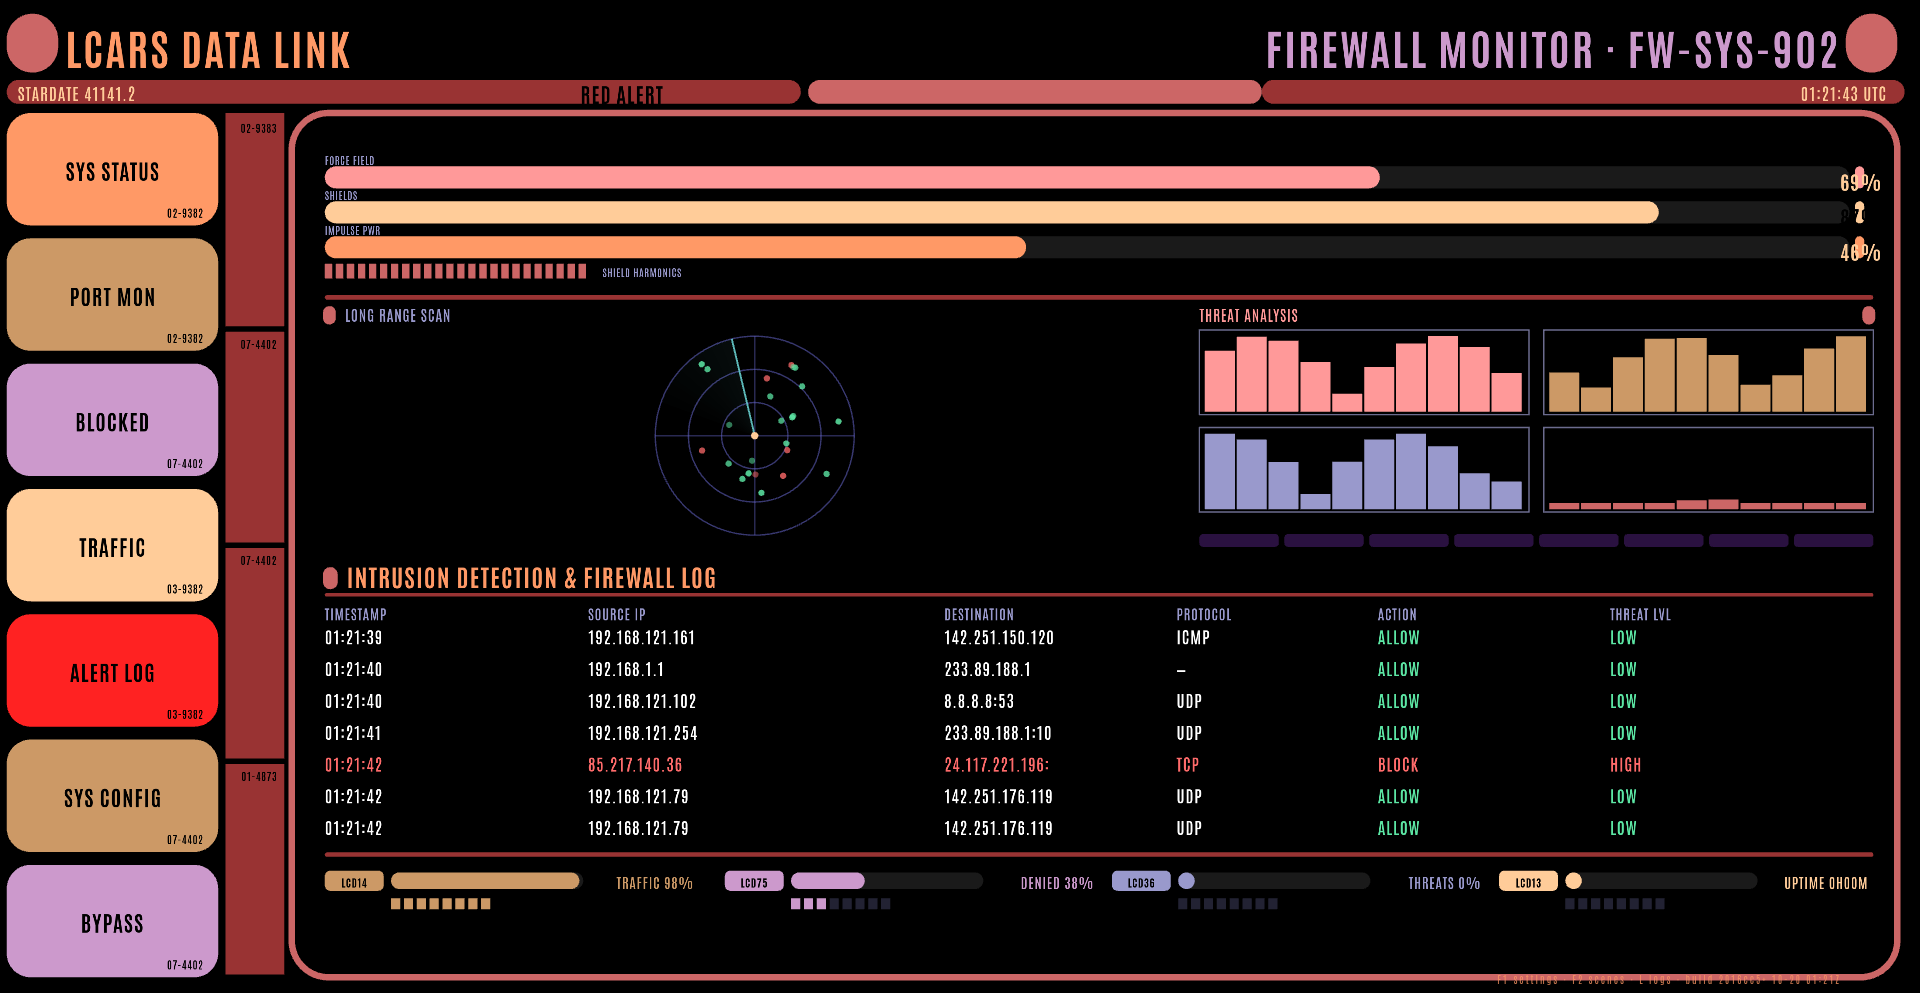
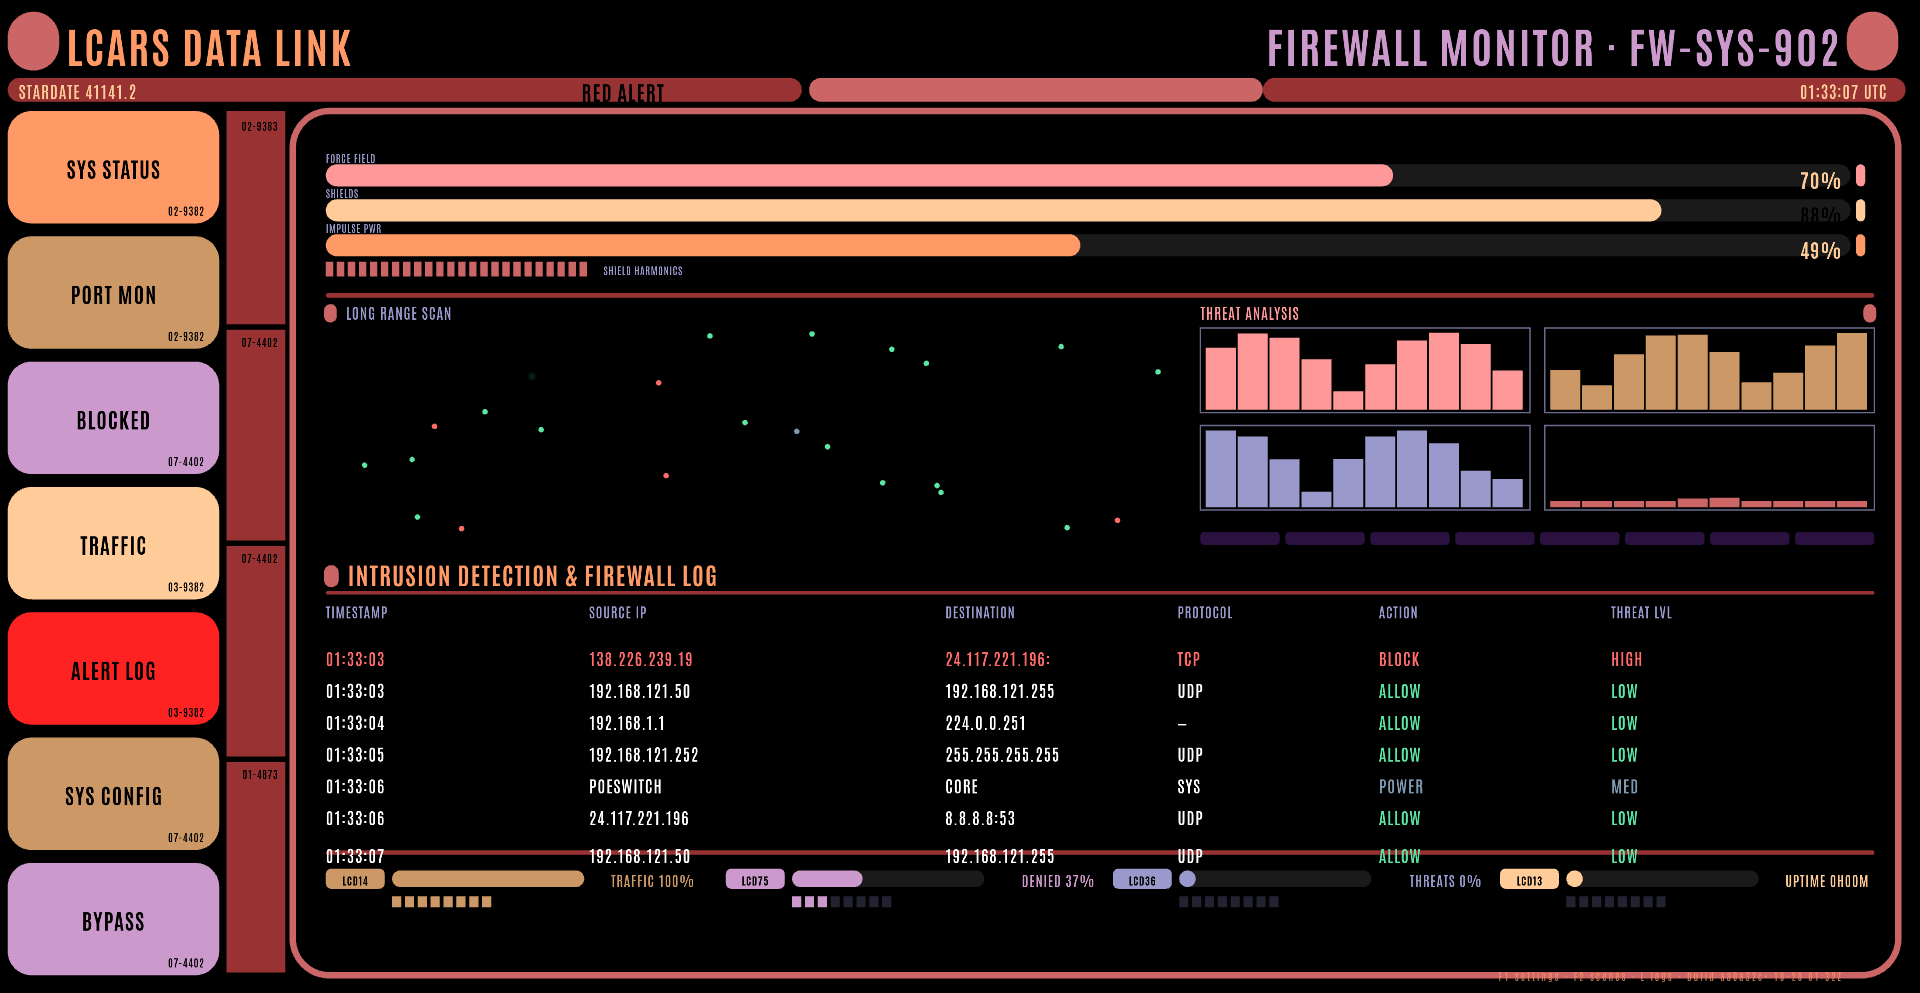
bridge: long-range scan is space, not radar; brightness is constant
Contacts drift through the scan panel and wrap at the edges; the
sensor locks a corner-bracket target on one of them every few
seconds, and threats lock their own contact at once. The system-
event power dip (the last thing that changed screen brightness) is
gone. Log rows now rise from below instead of dropping in, and the
gauge percentages are positioned by measured width so they never
collide with the bar end-caps.

diff --git a/web/src/themes/bridge/console.ts b/web/src/themes/bridge/console.ts
@@ -19,7 +19,7 @@ import { L, EV, label, hbar, vbar, pip } from './sprites';
 const KINDS = ['allow', 'block', 'dns', 'dhcp', 'wifi', 'threat', 'system'] as const;
 type Kind = typeof KINDS[number];
 
-interface Blip { ang: number; dist: number; t0: number; color: number; }
+interface Obj { x: number; y: number; vx: number; vy: number; t0: number; color: number; }
 interface LogRow { kind: Kind; time: string; src: string; dst: string; proto: string; action: string; lvl: string; y: number; }
 interface HistEv { kind: Kind; }
 
@@ -74,8 +74,10 @@ export class Console {
 
   private lay!: Lay;
   private t = 0;
-  private sweep = 0;
-  private blips: Blip[] = [];
+  private objs: Obj[] = [];
+  private target = -1;
+  private targetUntil = -9;
+  private nextTarget = 3;
   private rows: LogRow[] = [];
   private rowPool: Array<{ txt: Text }> = [];
   private hist: HistEv[] = [];
@@ -84,7 +86,6 @@ export class Console {
   private portI = 0;
   private ffFlash = 0;
   private blockFlash = 0;
-  private powerT = 9;
   private alertUntil = -9;
   private alertOn = false;
   private phase = 0;
@@ -103,6 +104,7 @@ export class Console {
   private hLog = label('INTRUSION DETECTION & FIREWALL LOG', 26, L.orange, 700);
   private hSweep = label('LONG RANGE SCAN', 16, L.paleblue, 600);
   private hThreat = label('THREAT ANALYSIS', 16, L.salmon, 600);
+  private lockT = label('', 14, L.salmon, 600);
   private colT: Text[] = [];
   private cellT: Text[][] = [];
   private gaugeT: Text[] = [];
@@ -111,7 +113,7 @@ export class Console {
 
   constructor(private layer: Container, private settings: Record<string, any>) {
     layer.addChild(this.chrome, this.leftG, this.gaugeG, this.sweepG, this.threatG, this.lcdG, this.rowsG, this.texts);
-    this.texts.addChild(this.titleL, this.titleR, this.stardateT, this.clockT, this.alertT, this.hLog, this.hSweep, this.hThreat);
+    this.texts.addChild(this.titleL, this.titleR, this.stardateT, this.clockT, this.alertT, this.hLog, this.hSweep, this.hThreat, this.lockT);
     for (let i = 0; i < SIDEBAR.length; i++) {
       const name = label(SIDEBAR[i][0], 24, '#000000', 700, 'center');
       const code = label(SIDEBAR[i][1], 13, '#000000', 600, 'right');
@@ -148,6 +150,7 @@ export class Console {
       this.texts.addChild(c, v);
     }
     this.alertT.visible = false;
+    this.lockT.visible = false;
   }
 
   // ── layout ───────────────────────────────────────────────────────────────
@@ -290,8 +293,10 @@ export class Console {
   // ── events ───────────────────────────────────────────────────────────────
   event(kind: Kind, src: string, ev?: { dst?: string; port?: string; proto?: string }): void {
     if (this.settings.bBlips !== false) {
-      if (this.blips.length >= (this.settings.bMaxBlips ?? 60)) this.blips.shift();
-      this.blips.push({ ang: Math.random() * Math.PI * 2, dist: 0.25 + Math.random() * 0.7, t0: this.t, color: EV[kind] });
+      if (this.objs.length >= (this.settings.bMaxBlips ?? 60)) this.objs.shift();
+      const a = Math.random() * Math.PI * 2, sp = 0.004 + Math.random() * 0.01;
+      this.objs.push({ x: Math.random(), y: Math.random(), vx: Math.cos(a) * sp, vy: Math.sin(a) * sp, t0: this.t, color: EV[kind] });
+      if (kind === 'threat') this.target = this.objs.length - 1, this.targetUntil = this.t + 3;
     }
     if (this.settings.bFeed !== false) {
       // at demo traffic the log would blur into noise: one row per 0.12s
@@ -304,7 +309,7 @@ export class Console {
           src: (src || '?').toUpperCase().slice(0, 15),
           dst: ((ev?.dst ?? '') + (ev?.port ? ':' + ev.port : '') || '—').toUpperCase().slice(0, 15),
           proto: (ev?.proto || (kind === 'dns' ? 'DNS' : kind === 'dhcp' ? 'DHCP' : kind === 'wifi' ? 'WPA' : '—')).toUpperCase().slice(0, 6),
-          action: ACTION[kind], lvl: LVL[kind], y: 40,
+          action: ACTION[kind], lvl: LVL[kind], y: -40,
         });
         const max = Math.min(20, this.settings.bFeedRows ?? 12);
         while (this.rows.length > max + 2) this.rows.shift();
@@ -322,7 +327,6 @@ export class Console {
     if (kind === 'wifi' && this.settings.bPorts !== false) {
       this.ports[this.portI % 8] = this.t; this.portI++;
     }
-    if (kind === 'system') this.powerT = 0;
   }
   private lastLog = -9;
 
@@ -344,12 +348,6 @@ export class Console {
     }
     this.alertT.visible = alert;
 
-    // power dropout (system): one smooth dip, no random flicker
-    if (this.powerT < 1.2) {
-      this.powerT += dt;
-      this.layer.alpha = 0.55 + 0.45 * Math.min(1, this.powerT / 1.2);
-    } else this.layer.alpha = 1;
-
     this.ffFlash = Math.max(0, this.ffFlash - dt * 1.6);
     this.blockFlash = Math.max(0, this.blockFlash - dt * 2.2);
 
@@ -360,7 +358,7 @@ export class Console {
     this.clockT.text = `${String(now.getUTCHours()).padStart(2, '0')}:${String(now.getUTCMinutes()).padStart(2, '0')}:${String(now.getUTCSeconds()).padStart(2, '0')} UTC`;
 
     this.drawGauges(u);
-    this.drawSweep(dt, t, u);
+    this.drawSpace(dt, t, u);
     this.drawThreat(t, u);
     this.drawLog(u);
     this.drawLcd(u);
@@ -395,9 +393,8 @@ export class Console {
       const vt = this.gaugeT[i * 2 + 1];
       vt.text = `${Math.round((v as number) * 100)}%`;
       vt.scale.set(Math.max(0.55, Math.min(2.2, u)) * 0.95);
-      vt.position.set(x + w - 10 * u, y + 3 * u);
+      vt.position.set(x + w - 10 * u - vt.width, y + 3 * u);
       vt.style.fill = (v as number) > 0.82 ? '#000000' : L.peach;
-      vt.style.align = 'right';
     });
     // shield harmonics: a segmented meter riding the activity
     const hx = gauges.x, hy = gauges.y + 22 * u + 3 * 38 * u - 8 * u;
@@ -412,37 +409,56 @@ export class Console {
     ht.position.set(hx + segs * 12 * u + 14 * u, hy + 1 * u);
   }
 
-  private drawSweep(dt: number, t: number, u: number): void {
+  private drawSpace(dt: number, t: number, u: number): void {
     const g = this.sweepG;
     g.clear();
     if (this.settings.bSweep === false) return;
     const { sweep } = this.lay;
-    const cx = sweep.x + sweep.w / 2, cy = sweep.y + sweep.h / 2 + 10 * u;
-    const R = Math.min(sweep.w, sweep.h - 20 * u) * 0.44;
-    this.sweep += dt * (0.55 + this.activity * 0.7);
-    for (let i = 1; i <= 3; i++) g.circle(cx, cy, R * i / 3).stroke({ width: 1.5 * u, color: L.deepblue, alpha: 0.55 });
-    g.moveTo(cx - R, cy).lineTo(cx + R, cy).stroke({ width: 1.5 * u, color: L.deepblue, alpha: 0.4 });
-    g.moveTo(cx, cy - R).lineTo(cx, cy + R).stroke({ width: 1.5 * u, color: L.deepblue, alpha: 0.4 });
-    const steps = 18;
-    for (let i = 0; i < steps; i++) {
-      const a0 = this.sweep - (i + 1) * 0.055, a1 = this.sweep - i * 0.055;
-      g.moveTo(cx, cy)
-        .lineTo(cx + Math.cos(a0) * R, cy + Math.sin(a0) * R)
-        .lineTo(cx + Math.cos(a1) * R, cy + Math.sin(a1) * R)
-        .closePath().fill({ color: L.cyan, alpha: 0.05 * (1 - i / steps) + 0.008 });
+    const x = sweep.x + 10 * u, y = sweep.y + 26 * u;
+    const w = sweep.w - 20 * u, h = sweep.h - 36 * u;
+
+    // objects drift slowly through the frame and wrap at the edges
+    for (const o of this.objs) {
+      o.x += o.vx * dt * 6; o.y += o.vy * dt * 6;
+      if (o.x < 0.02) o.x += 0.96; if (o.x > 0.98) o.x -= 0.96;
+      if (o.y < 0.03) o.y += 0.94; if (o.y > 0.97) o.y -= 0.94;
     }
-    g.moveTo(cx, cy).lineTo(cx + Math.cos(this.sweep) * R, cy + Math.sin(this.sweep) * R)
-      .stroke({ width: 2 * u, color: L.cyan, alpha: 0.9 });
-    g.circle(cx, cy, 4 * u).fill(L.peach);
-    for (let i = this.blips.length - 1; i >= 0; i--) {
-      const b = this.blips[i];
-      const age = t - b.t0;
-      if (age > 6) { this.blips.splice(i, 1); continue; }
-      const bx = cx + Math.cos(b.ang) * R * b.dist, by = cy + Math.sin(b.ang) * R * b.dist;
-      const al = age < 0.15 ? age / 0.15 : Math.max(0, 1 - (age - 0.15) / 5.8);
-      g.circle(bx, by, 3.4 * u).fill({ color: b.color, alpha: al });
-      if (age < 0.9) g.circle(bx, by, (3.4 + age * 22) * u).stroke({ width: 1.5 * u, color: b.color, alpha: al * 0.5 * (1 - age / 0.9) });
+
+    // the sensor occasionally locks onto one contact and rides it for a while
+    if (t > this.nextTarget && this.objs.length) {
+      this.target = Math.floor(Math.random() * this.objs.length);
+      this.targetUntil = t + 2.5 + Math.random() * 2;
+      this.nextTarget = this.targetUntil + 2 + Math.random() * 5;
     }
+    if (t > this.targetUntil) this.target = -1;
+    if (this.target >= this.objs.length) this.target = -1;
+
+    for (let i = 0; i < this.objs.length; i++) {
+      const o = this.objs[i];
+      const px = x + o.x * w, py = y + o.y * h;
+      const age = t - o.t0;
+      const al = Math.min(1, age / 0.4);
+      g.circle(px, py, 3 * u).fill({ color: o.color, alpha: al });
+      if (age < 0.9) g.circle(px, py, (3 + age * 14) * u).stroke({ width: 1.5 * u, color: o.color, alpha: al * 0.5 * (1 - age / 0.9) });
+      if (i === this.target) {
+        // LCARS target lock: corner brackets + a tracking ring
+        const r = (10 + 2 * Math.sin(t * 3)) * u;
+        g.circle(px, py, r + 4 * u).stroke({ width: 1.5 * u, color: L.salmon, alpha: 0.9 });
+        for (const [sx, sy] of [[-1, -1], [1, -1], [-1, 1], [1, 1]] as const) {
+          g.moveTo(px + sx * r, py + sy * r - sy * 5 * u).lineTo(px + sx * r, py + sy * r).lineTo(px + sx * r - sx * 5 * u, py + sy * r)
+            .stroke({ width: 2.5 * u, color: L.salmon, alpha: 1 });
+        }
+      }
+    }
+    // lock readout
+    const lt = this.lockT;
+    if (this.target >= 0) {
+      const o = this.objs[this.target];
+      lt.visible = true;
+      lt.scale.set(Math.max(0.55, Math.min(2.2, u)) * 0.85);
+      lt.position.set(x + 6 * u, y + h - 18 * u);
+      lt.text = `TARGET LOCK · CONTACT ${String(this.target).padStart(2, '0')} · TRACKING`;
+    } else lt.visible = false;
   }
 
   private drawThreat(t: number, u: number): void {

diff --git a/web/src/themes/bridge/settings.ts b/web/src/themes/bridge/settings.ts
@@ -40,7 +40,7 @@ const range = (key: Key, label: string, min: number, max: number, step: number):
 
 export const BRIDGE_CONTROLS = {
   scene: [
-    toggle('bSweep', 'Long-range sweep'), toggle('bBlips', 'Sensor blips'),
+    toggle('bSweep', 'Long-range scan'), toggle('bBlips', 'Contacts'),
     toggle('bFeed', 'Intrusion log'), toggle('bBars', 'Threat analysis'),
     toggle('bWave', 'Shield harmonics'), toggle('bAlert', 'Red alert (threats)'),
     toggle('bPorts', 'Docking uplink ports (Wi-Fi)'),

diff --git a/README.md b/README.md
@@ -52,10 +52,11 @@ your own traffic. Pick a scene per screen:
   quiet karts to new drivers, blocks leave oil, Wi-Fi joins light the boost
   pads, and when the IDS barks a red shell screams off the back of the pack
   for the leader
-- **Bridge**: your network as the LCARS console of a starship — events land as
-  coloured blips on the long-range sweep and scroll down the intrusion log as
-  a proper table, Wi-Fi joins light the docking ports, blocks chip the force
-  field, and a threat throws the whole deck into a steady red alert
+- **Bridge**: your network as the LCARS console of a starship — events drift
+  through the long-range scan as contacts the sensor keeps locking onto, the
+  intrusion log scrolls as a proper table, Wi-Fi joins light the docking
+  ports, blocks chip the force field, and a threat throws the whole deck into
+  a steady red alert
 
 There's no database, no cloud and nothing is recorded. pewpew only reads syslog
 and never touches the network itself.
@@ -1353,15 +1354,16 @@ and it holds 60 fps on a Raspberry Pi.
 Your network as the LCARS console of a starship, laid out like a classic
 master systems display: a big title bar with end-caps, a column of pill
 buttons down the left, a gold rail of codes, and one rounded frame holding
-the working panels. The long-range sweep is the main viewer — every event
-lands as a coloured blip where its host sits on the scope and fades as the
-arm passes. The intrusion log is a real table (timestamp, source, destination,
+the working panels. The long-range scan is the main viewer — every event
+arrives as a coloured contact drifting through space, and the sensor keeps
+picking one up in a corner-bracket target lock. The intrusion log is a real table (timestamp, source, destination,
 protocol, action, threat level) with the rows coloured by the event law; the
 threat analyser charts the last thirty seconds and the docking-uplink ports
 light for Wi-Fi joins. Force field, shields and impulse power ride the gauge
 row with their percentages knocked out at the bar ends. Blocks chip the force
 field and turn the harmonics red; a threat throws the deck into a **steady**
-red alert — the frame goes red and stays red, nothing strobes. The console
+red alert — the frame goes red and stays red, nothing strobes and the screen
+brightness never changes. The console
 *is* the HUD: the generic panels hide themselves, and every pill, rail and
 elbow is vector geometry that re-flows to any window and stays crisp from
 720p to 4K.
